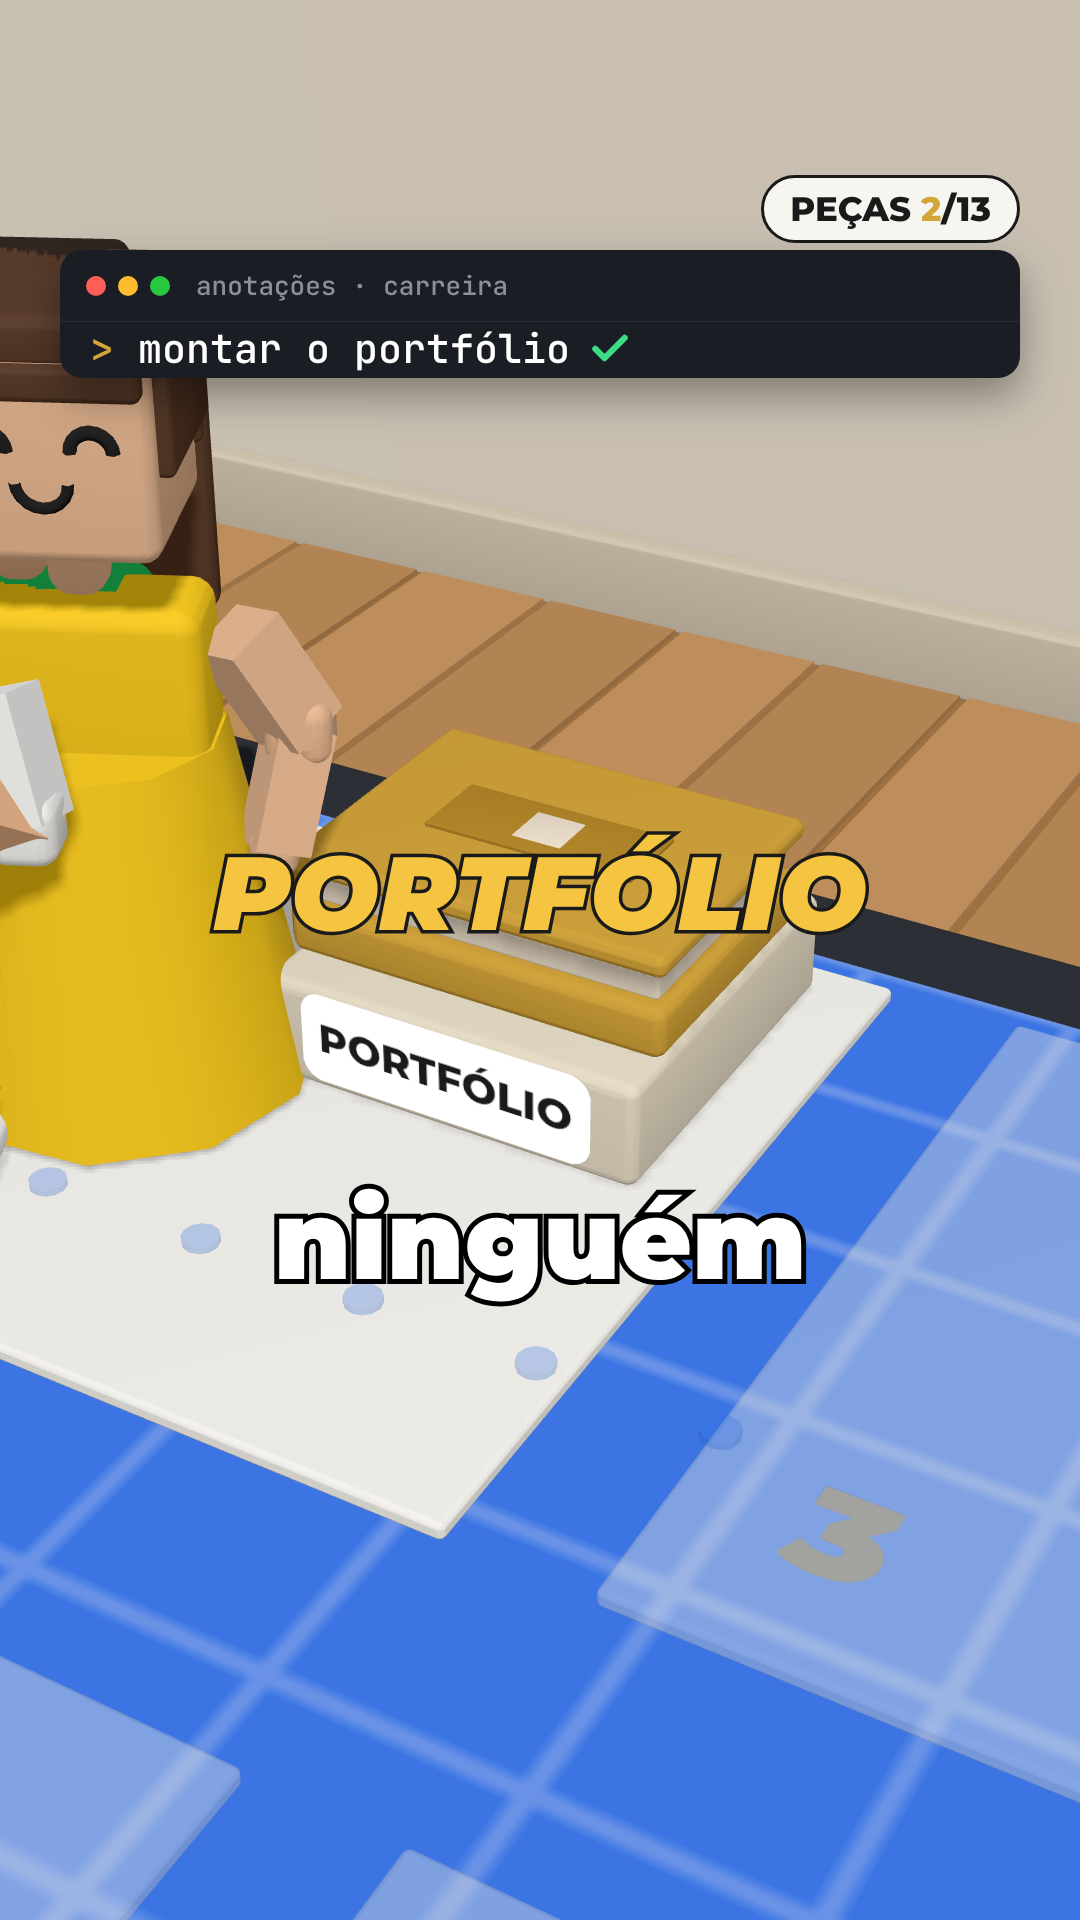
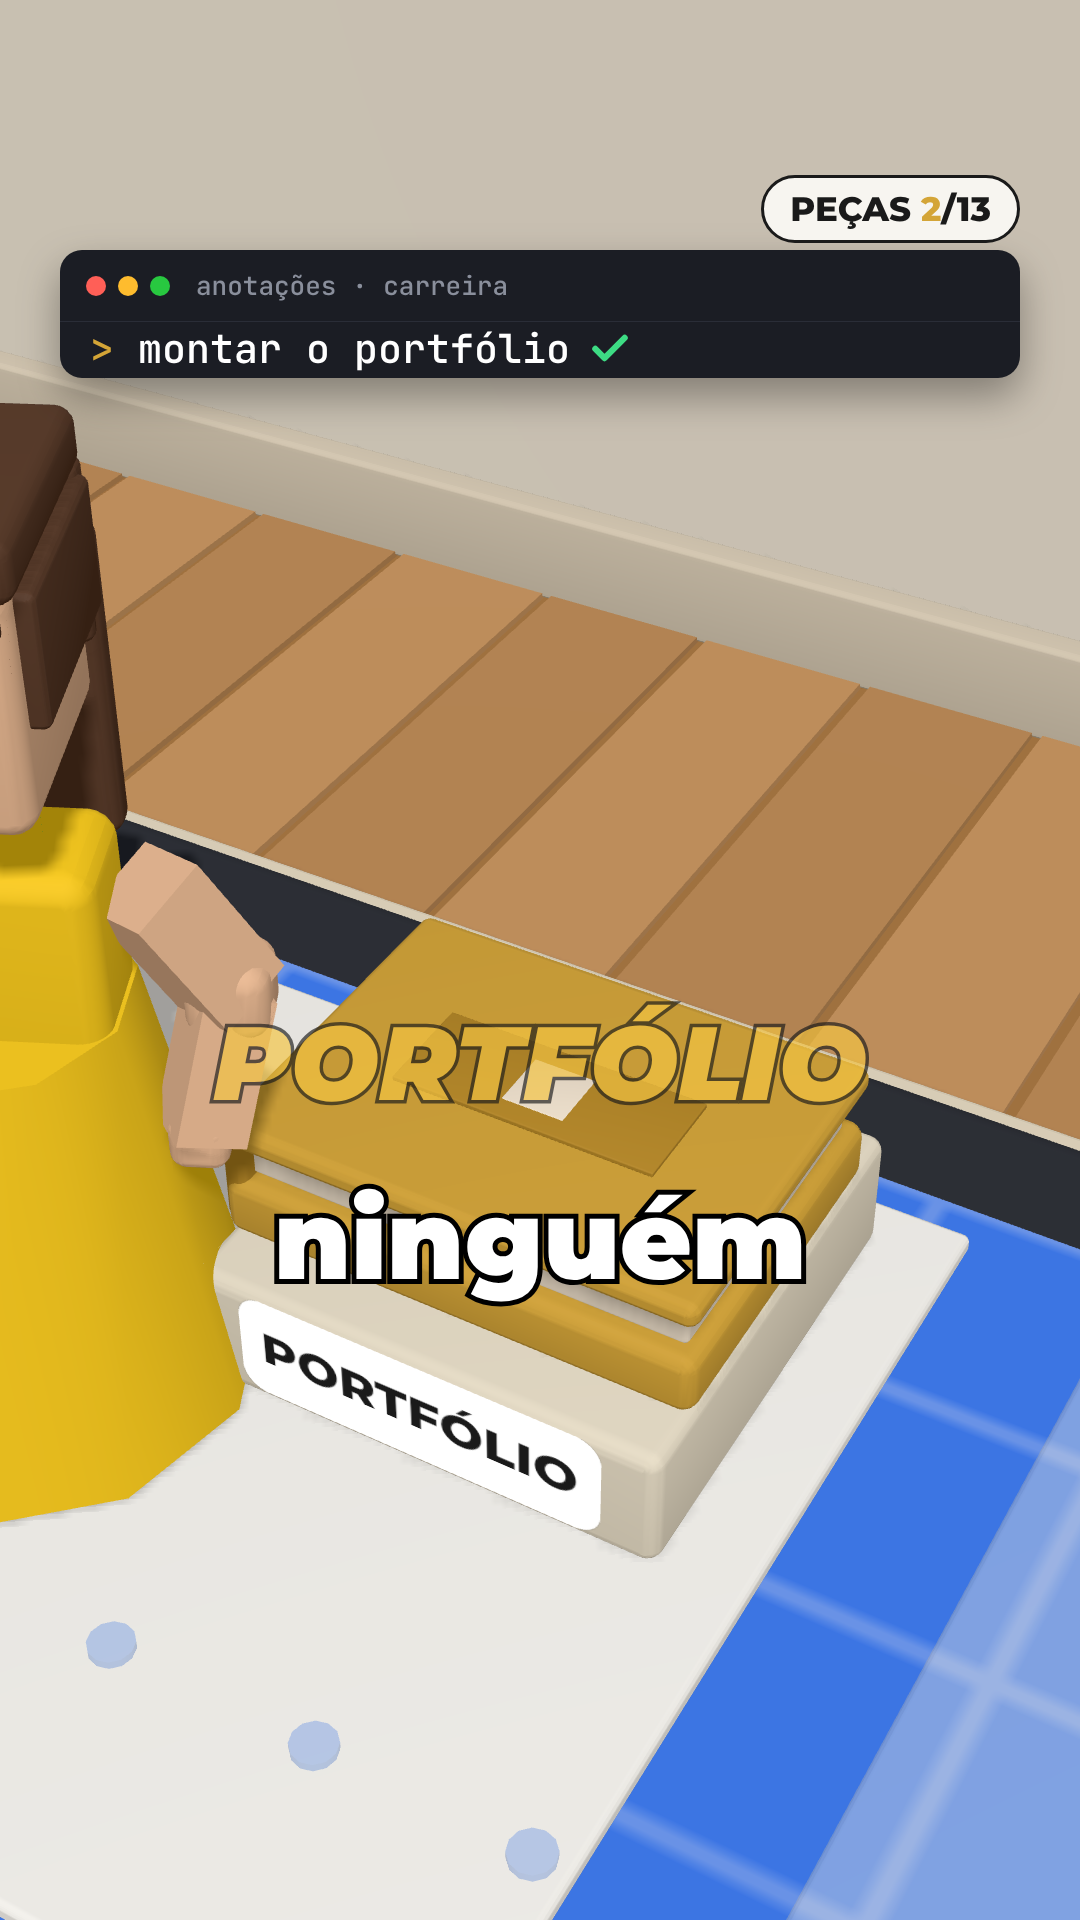
V3: zoom como na referencia (personagem 40% a 50% da altura, peca 70% da largura, corta na vertical), placa com corte proprio, elevacao 38
Claude-Session: https://claude.ai/code/session_01Vzt37KpoxsvdEaB451siUy

diff --git a/src/cena/enquadramento.ts b/src/cena/enquadramento.ts
@@ -2,7 +2,6 @@
 // Cada plano declara az, el, tipo e uma lista "precisa aparecer" (caixas 3D de uma tabela de tamanhos).
 // A distancia d e o ponto de mira saem de uma busca binaria (20 iteracoes) com FOV fixo, calculada uma vez por plano (cache).
 import * as THREE from "three";
-import { CARD_SLIDE, LINHAS } from "../util/tempo";
 import {
   ALTURA_PED, ALTURA_PERSONAGEM, V3, Y_CASA, posAmigoA, posAmigoB, posCli, posFot, posNoiva, posNoivo, posMesa, posPlaca,
   posPedestal, TABULEIRO,
@@ -22,13 +21,16 @@ export const JANELA_FINAL: Janela = { x0: 50, x1: 1030, y0: 700, y1: 1400 };
 export const JANELA_UTIL = JANELA_CARD;
 const MARGEM = 30;
 // metas de tamanho (px)
-export const LARG_CLOSE = 0.55 * LARGURA_TELA; // peca: 55% da largura (594 px)
+export const LARG_CLOSE = 0.7 * LARGURA_TELA; // peca: 70% da largura (756 px), como na referencia (45% a 70%), pode cortar em cima e embaixo
 export const TOL_CLOSE = 0.05;
-export const ALT_CAMINHADA = 0.45 * ALTURA_TELA; // fotografo andando: 45% da altura da tela (864 px)
+export const ALT_CAMINHADA = 0.5 * ALTURA_TELA; // fotografo andando: 50% da altura da tela (960 px)
+export const ALT_CENA = 0.4 * ALTURA_TELA; // cena: o fotografo mede ao menos 40% da altura da tela (768 px); o resto pode cortar
 export const ALT_ABERTURA = 0.55 * ALTURA_TELA; // s00: fotografo a 55% da altura da tela (1056 px)
 export const LARG_CENA_MIN = 0.75 * LARGURA_TELA; // cena: conjunto a 75% da largura (810 px) ...
 export const ALT_CENA_MIN = 0.4 * ALTURA_TELA; // ... ou personagem mais alto a 40% da altura (768 px)
-export const LARG_DETALHE = 0.45 * LARGURA_TELA;
+export const LARG_DETALHE = 0.6 * LARGURA_TELA;
+export const JANELA_CENA: Janela = { x0: -40, x1: 1120, y0: 520, y1: 1560 }; // cena: pode cortar ate 40 px nas laterais
+export const JANELA_V: Janela = { x0: 50, x1: 1030, y0: 520, y1: 1560 }; // planos que cortam na vertical: so a largura limita
 // legenda: nao pode cobrir cabecas, plaquinhas nem a placa de foto
 export const BANDA_LEGENDA = { x0: 80, x1: 1000, y0: 1185, y1: 1295 };
 
@@ -126,6 +128,7 @@ export type Plano = {
   janela?: Janela;
   seguir?: { de: string; para: string }; // caminhada: a mira acompanha o fotografo
   casa?: number; // casa do segmento (plaquinha e placa de foto)
+  livreV?: boolean; // so a largura limita; em cima e embaixo pode cortar (como na referencia)
 };
 
 // ---------- calculo ----------
@@ -222,7 +225,7 @@ const PROGS = [0, 0.5, 1];
 
 function resolverLista(plano: Plano, lista: string[]): Omit<Resolvido, "removidos"> {
   const janela = plano.janela ?? JANELA_CARD;
-  const util = { w: janela.x1 - janela.x0 - 2 * MARGEM, h: janela.y1 - janela.y0 - 2 * MARGEM };
+  const util = { w: janela.x1 - janela.x0 - 2 * MARGEM, h: plano.livreV ? 1e9 : janela.y1 - janela.y0 - 2 * MARGEM };
   const todos = pontosDe(lista);
   const ptsP = plano.principal ? cantos(plano.principal) : null;
   const inicio = centroMundo(todos);
@@ -269,7 +272,7 @@ function resolverLista(plano: Plano, lista: string[]): Omit<Resolvido, "removido
     const dentro = (a: THREE.Vector3) =>
       PROGS.every((pr) => {
         const u = retsEm(a, pr).u;
-        return u.xmin >= janela.x0 - 1 && u.xmax <= janela.x1 + 1 && u.ymin >= janela.y0 - 1 && u.ymax <= janela.y1 + 1;
+        return u.xmin >= janela.x0 - 1 && u.xmax <= janela.x1 + 1 && (plano.livreV || (u.ymin >= janela.y0 - 1 && u.ymax <= janela.y1 + 1));
       });
     alvoF = alvo.clone();
     deslocY = 0;
@@ -301,7 +304,7 @@ function resolverLista(plano: Plano, lista: string[]): Omit<Resolvido, "removido
   for (const id of lista) {
     const r = projetarPontos(cantos(id));
     caixas[id] = r;
-    if (r.xmin < janela.x0 - 0.5 || r.xmax > janela.x1 + 0.5 || r.ymin < janela.y0 - 0.5 || r.ymax > janela.y1 + 0.5) fora.push(id);
+    if (r.xmin < janela.x0 - 0.5 || r.xmax > janela.x1 + 0.5 || (!plano.livreV && (r.ymin < janela.y0 - 0.5 || r.ymax > janela.y1 + 0.5))) fora.push(id);
   }
   let limite: Resolvido["limite"] = "janela";
   if (p && plano.larguraPx) limite = Math.abs(p.xmax - p.xmin - plano.larguraPx) <= plano.larguraPx * TOL_CLOSE ? "largura" : "altura";
@@ -412,7 +415,7 @@ const R = (ref: Ref["ref"], nome?: string, desl = 0): Ref => ({ ref, nome, desl 
 const AZ_REP = (n: number) => (n >= 6 && n <= 10 ? -30 : 30); // caminhada: o fotografo anda em direcao a camera
 // close e cena: camera a direita (az +30) em todas as casas; o layout das casas (peca no fundo a direita, personagens a esquerda) foi feito para isso
 const AZ_VISTA = 30;
-const EL = 32;
+const EL = 38;
 
 // quem esta em cena em cada casa
 const personagensDe = (n: number): string[] => {
@@ -429,11 +432,10 @@ const extrasDe = (n: number): string[] => {
   if (n === 10) e.push("notebook10");
   return e;
 };
-const placaDe = (n: number): string[] => ([1, 7, 8, 9].indexOf(n) >= 0 ? [`placa${n}`] : []);
 const sid = (n: number) => `s${String(n).padStart(2, "0")}`;
 
 export const planoCaminhada = (n: number): Plano => ({
-  id: `${sid(n)}-caminhada`, tipo: "caminhada", az: AZ_REP(n), el: EL, lista: [`fot${n}`], principal: `fot${n}`, alturaPx: ALT_CAMINHADA, casa: n,
+  id: `${sid(n)}-caminhada`, tipo: "caminhada", az: AZ_REP(n), el: EL, lista: [`fot${n}`], principal: `fot${n}`, alturaPx: ALT_CAMINHADA, casa: n, livreV: true, janela: JANELA_V,
   seguir: n >= 2 ? { de: `fot${n - 1}`, para: `fot${n}` } : undefined,
 });
 
@@ -443,7 +445,7 @@ const baseClose = (n: number): Plano => {
   return {
     id: `${sid(n)}-close`, tipo: "close", az: AZ_VISTA * 0.85, el: EL, casa: n, principal,
     lista: madr || n === 12 ? [principal] : [principal, `plaq${n}`],
-    larguraPx: madr ? undefined : LARG_CLOSE, alturaPx: madr ? 0.5 * ALTURA_TELA : undefined,
+    larguraPx: madr ? undefined : LARG_CLOSE, alturaPx: madr ? 0.6 * ALTURA_TELA : undefined, livreV: true, janela: JANELA_V,
   };
 };
 // close da peca: a lista e so a peca e a plaquinha. Se um personagem cobrir mais de 15% da peca, ou aparecer cortado na tela,
@@ -470,8 +472,7 @@ export const planoClose = (n: number): Plano => {
       }
     }
     const larg = r.principal ? r.principal.xmax - r.principal.xmin : 0;
-    const alt = r.principal ? r.principal.ymax - r.principal.ymin : 0;
-    const okTam = larg >= LARG_CLOSE * (1 - TOL_CLOSE) - 1 || alt >= (r.janela.y1 - r.janela.y0 - 2 * MARGEM) * 0.97;
+    const okTam = larg >= LARG_CLOSE * (1 - TOL_CLOSE) - 1;
     if (vis < 0.85 || !okTam) continue;
     const score = intr * 1000 + Math.abs(k);
     if (!melhor || score < melhor.score) melhor = { p, k, vis, intr, score };
@@ -484,22 +485,23 @@ export const planoClose = (n: number): Plano => {
   return melhor.p;
 };
 
-export const planoCena = (n: number): Plano => {
-  const L = LINHAS[n];
-  const cardFora = L.cardSai + CARD_SLIDE <= L.cenaIni;
-  return {
-    id: `${sid(n)}-cena`, tipo: "cena", az: AZ_VISTA, el: EL, casa: n, janela: cardFora ? JANELA_LIVRE : JANELA_CARD,
-    lista: [...personagensDe(n), ...extrasDe(n), ...placaDe(n), `peca${n}`],
-  };
-};
-export const planoDetalhe = (n: number): Plano => ({
-  id: `${sid(n)}-detalhe`, tipo: "detalhe", az: 24, el: 30, lista: [`maoCam${n}`], principal: `maoCam${n}`, larguraPx: LARG_DETALHE, janela: JANELA_LIVRE, casa: n,
+export const planoCena = (n: number): Plano => ({
+  id: `${sid(n)}-cena`, tipo: "cena", az: AZ_VISTA, el: EL, casa: n, janela: JANELA_CENA, livreV: true,
+  principal: `fot${n}`, alturaPx: ALT_CENA * 1.04, // o fotografo mede 50% da altura da tela; peca e personagens entram pela largura; placa tem plano proprio
+  lista: [...personagensDe(n), ...extrasDe(n), `peca${n}`],
 });
-export const PLANO_ABERTURA: Plano = { id: "s00-abertura", tipo: "close", az: 22, el: 28, lista: ["fot1"], principal: "fot1", alturaPx: ALT_ABERTURA, janela: JANELA_LIVRE, casa: 1 };
+// plano da placa de foto: a moldura ocupa 70% da largura (nos momentos em que a foto muda)
+export const planoPlaca = (n: number, sufixo: string): Plano => ({
+  id: `${sid(n)}-placa${sufixo}`, tipo: "close", az: AZ_VISTA * 0.85, el: EL, casa: n, lista: [`tela${n}`], principal: `tela${n}`, larguraPx: LARG_CLOSE, livreV: true, janela: JANELA_V,
+});
+export const planoDetalhe = (n: number): Plano => ({
+  id: `${sid(n)}-detalhe`, tipo: "detalhe", az: 24, el: 30, lista: [`maoCam${n}`], principal: `maoCam${n}`, larguraPx: LARG_DETALHE, janela: JANELA_V, livreV: true, casa: n,
+});
+export const PLANO_ABERTURA: Plano = { id: "s00-abertura", tipo: "close", az: 22, el: 28, lista: ["fot1"], principal: "fot1", alturaPx: ALT_ABERTURA, janela: JANELA_V, livreV: true, casa: 1 };
 export const PLANO_TABULEIRO: Plano = { id: "s00-tabuleiro", tipo: "aberto", az: 22, el: 52, lista: ["tabuleiro"], janela: JANELA_LIVRE };
 export const PLANO_PRONTO: Plano = { id: "s13-pronto", tipo: "aberto", az: 22, el: 52, lista: ["tabuleiro", "seta"], janela: JANELA_LIVRE };
 export const PLANO_FINAL: Plano = { id: "s14-final", tipo: "aberto", az: 22, el: 52, lista: ["tabuleiro", "seta"], janela: JANELA_FINAL };
-export const PLANO_VOO: Plano = { id: "s12-voo", tipo: "close", az: 30, el: EL, lista: ["peca3", "plaq3"], principal: "peca3", larguraPx: LARG_CLOSE, janela: JANELA_LIVRE, casa: 3 };
+export const PLANO_VOO: Plano = { id: "s12-voo", tipo: "close", az: 30, el: EL, lista: ["peca3", "plaq3"], principal: "peca3", larguraPx: LARG_CLOSE, janela: JANELA_V, livreV: true, casa: 3 };
 
 export const ETAPAS_SEG: EtapaPlano[][] = (() => {
   const out: EtapaPlano[][] = [];
@@ -516,7 +518,19 @@ export const ETAPAS_SEG: EtapaPlano[][] = (() => {
     e.push({ quando: R("cena"), plano: planoCena(n), trans: 0.5 });
     if (n === 7 || n === 8 || n === 9) {
       e.push({ quando: R("ev", "solucao", -0.1), plano: planoDetalhe(n), trans: 0.3 });
-      e.push({ quando: R("ev", "solucao", 1.1), plano: planoCena(n), trans: 0.4 });
+      e.push({ quando: R("ev", "solucao", 1.1), plano: planoPlaca(n, ""), trans: 0.3 });
+      e.push({ quando: R("ev", "solucao", 2.5), plano: planoCena(n), trans: 0.4 });
+    }
+    // a placa de foto tem corte proprio quando a foto muda (s01: clique e manual; s08: foto corrompida)
+    if (n === 1) {
+      e.push({ quando: R("ev", "problema", 0.3), plano: planoPlaca(1, "a"), trans: 0.3 });
+      e.push({ quando: R("ev", "problema", 1.4), plano: planoCena(1), trans: 0.4 });
+      e.push({ quando: R("ev", "solucao", 0.1), plano: planoPlaca(1, "b"), trans: 0.3 });
+      e.push({ quando: R("ev", "solucao", 1.4), plano: planoCena(1), trans: 0.4 });
+    }
+    if (n === 8) {
+      e.push({ quando: R("ev", "problema", 0.1), plano: planoPlaca(8, "a"), trans: 0.3 });
+      e.push({ quando: R("ev", "problema", 1.3), plano: planoCena(8), trans: 0.4 });
     }
     if (n === 12) {
       e.push({ quando: R("ev", "depoimento", -0.2), plano: { ...planoClose(12), id: "s12-balao" }, trans: 0.4 }); // estrelas acendendo

diff --git a/scripts/verificar-enquadramento.ts b/scripts/verificar-enquadramento.ts
@@ -2,7 +2,7 @@
 // obrigatorios por tipo de plano, legenda sobre cabecas/plaquinhas/placa, regra de tamanho minimo e extremos da orbita.
 // Rodar: npx esbuild scripts/verificar-enquadramento.ts --bundle --platform=node --format=esm --external:three --outfile=out/enq.mjs && node out/enq.mjs
 import {
-  ALT_ABERTURA, ALT_CAMINHADA, ALT_CENA_MIN, BANDA_LEGENDA, LARG_CENA_MIN, LARG_CLOSE, LARG_DETALHE, PLANOS_RESOLVIDOS, TOL_CLOSE,
+  ALT_ABERTURA, ALT_CAMINHADA, ALT_CENA, BANDA_LEGENDA, LARG_CLOSE, LARG_DETALHE, PLANOS_RESOLVIDOS, TOL_CLOSE,
   Resolvido, logAzClose, projetarEmProg, sensiveisProjetados,
 } from "../src/cena/enquadramento";
 
@@ -20,6 +20,7 @@ for (const r of PLANOS_RESOLVIDOS as Resolvido[]) {
   const p = r.plano;
   const jan = r.janela;
   const alt = r.principal ? r.principal.ymax - r.principal.ymin : 0;
+  void alt;
   const larg = r.principal ? r.principal.xmax - r.principal.xmin : 0;
   console.log(`${p.id.padEnd(15)} ${p.tipo.padEnd(9)} el ${p.el} az ${String(p.az).padStart(5)}  d ${r.d.toFixed(2).padStart(6)} m  janela y ${jan.y0}..${jan.y1}  deslocY ${r.deslocY} px`);
   console.log(`${"".padEnd(15)} conjunto ${R(r.uniao)}  largura ${r.larguraConjunto.toFixed(0)} px (${((r.larguraConjunto / 1080) * 100).toFixed(0)}% da tela)  personagem mais alto ${r.alturaMaxPersonagem.toFixed(0)} px (${((r.alturaMaxPersonagem / 1920) * 100).toFixed(0)}% da tela)`);
@@ -28,18 +29,13 @@ for (const r of PLANOS_RESOLVIDOS as Resolvido[]) {
   // minimos por tipo
   if (p.tipo === "caminhada" && alt < ALT_CAMINHADA - 3) falha(`${p.id}: fotografo ${alt.toFixed(0)} px < ${ALT_CAMINHADA.toFixed(0)} px (45% da tela)`);
   if (p.id === "s00-abertura" && alt < ALT_ABERTURA - 3) falha(`${p.id}: fotografo ${alt.toFixed(0)} px < ${ALT_ABERTURA.toFixed(0)} px (55% da tela)`);
-  if (p.tipo === "close" && p.larguraPx) {
-    const altJan = jan.y1 - jan.y0 - 60;
-    const okLarg = larg >= p.larguraPx * (1 - TOL_CLOSE) - 1;
-    const okAlt = alt >= altJan * 0.97; // peca alta e estreita: a altura da janela limita antes dos 55% de largura
-    if (!okLarg && !okAlt) falha(`${p.id}: peca ${larg.toFixed(0)} px de largura < ${(LARG_CLOSE * (1 - TOL_CLOSE)).toFixed(0)} px e nao preenche a janela`);
-    else if (!okLarg) console.log(`${"".padEnd(15)} AVISO: peca limitada pela altura da janela (largura ${larg.toFixed(0)} px = ${((larg / 1080) * 100).toFixed(0)}% < 55%), altura ${alt.toFixed(0)} px de ${altJan} px`);
-  }
-  if (p.tipo === "detalhe" && Math.abs(larg - LARG_DETALHE) > LARG_DETALHE * 0.05 + 1) falha(`${p.id}: camera na mao ${larg.toFixed(0)} px != ${LARG_DETALHE.toFixed(0)} px (45%)`);
+  if (p.tipo === "close" && p.larguraPx && larg < p.larguraPx * (1 - TOL_CLOSE) - 1) falha(`${p.id}: ${p.principal} ${larg.toFixed(0)} px de largura < ${(p.larguraPx * (1 - TOL_CLOSE)).toFixed(0)} px (${((p.larguraPx / 1080) * 100).toFixed(0)}% da tela)`);
+  if (p.tipo === "detalhe" && Math.abs(larg - LARG_DETALHE) > LARG_DETALHE * 0.05 + 1) falha(`${p.id}: camera na mao ${larg.toFixed(0)} px != ${LARG_DETALHE.toFixed(0)} px`);
   if (p.tipo === "cena") {
-    const ok = r.larguraConjunto >= LARG_CENA_MIN - 1 || r.alturaMaxPersonagem >= ALT_CENA_MIN - 1;
-    console.log(`${"".padEnd(15)} cena: conjunto ${r.larguraConjunto.toFixed(0)} px (min ${LARG_CENA_MIN.toFixed(0)}) OU personagem ${r.alturaMaxPersonagem.toFixed(0)} px (min ${ALT_CENA_MIN.toFixed(0)})  ${ok ? "ok" : "ABAIXO"}`);
-    if (!ok) falha(`${p.id}: cena abaixo do minimo`);
+    const alvoAlt = r.caixas[p.principal ?? ""] ? r.caixas[p.principal!].ymax - r.caixas[p.principal!].ymin : 0;
+    const ok = alvoAlt >= ALT_CENA - 2;
+    console.log(`${"".padEnd(15)} cena: fotografo ${alvoAlt.toFixed(0)} px (min ${ALT_CENA.toFixed(0)} = 40% da tela), conjunto ${r.larguraConjunto.toFixed(0)} px de largura  ${ok ? "ok" : "ABAIXO"}`);
+    if (!ok) falha(`${p.id}: fotografo ${alvoAlt.toFixed(0)} px < ${ALT_CENA.toFixed(0)} px`);
   }
   if (r.removidos.length) {
     const msg = `${p.id}: regra de tamanho minimo tirou da lista: ${r.removidos.join(", ")}`;
@@ -50,7 +46,7 @@ for (const r of PLANOS_RESOLVIDOS as Resolvido[]) {
   const extremos: string[] = [];
   for (const prog of [0, 0.5, 1]) {
     for (const [id, c] of Object.entries(projetarEmProg(p, prog))) {
-      if (c.xmin < jan.x0 - 1 || c.xmax > jan.x1 + 1 || c.ymin < jan.y0 - 1 || c.ymax > jan.y1 + 1) extremos.push(`${id} (prog ${prog})`);
+      if (c.xmin < jan.x0 - 1 || c.xmax > jan.x1 + 1 || (!p.livreV && (c.ymin < jan.y0 - 1 || c.ymax > jan.y1 + 1))) extremos.push(`${id} (prog ${prog})`);
     }
     for (const s of sensiveisProjetados(p, prog)) {
       if (s.r.xmax > BANDA_LEGENDA.x0 && s.r.xmin < BANDA_LEGENDA.x1 && s.r.ymax > BANDA_LEGENDA.y0 && s.r.ymin < BANDA_LEGENDA.y1) extremos.push(`${s.nome} sob a legenda (prog ${prog})`);
